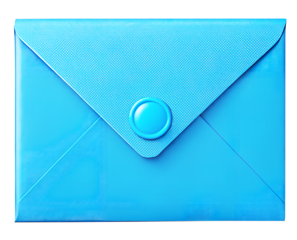
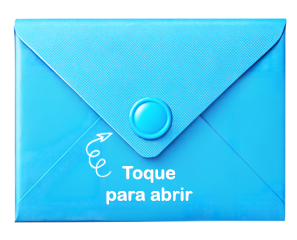
Botão de play no video

diff --git a/convite/index.html b/convite/index.html
@@ -60,7 +60,6 @@ body{
     object-fit:cover;
 
     /* impede interação */
-    pointer-events:none;
 }
 .decoracao{
     width: 25px;
@@ -161,7 +160,7 @@ body{
 
 .nuvens{
     position:relative;
-    padding:30px 25px 165px 25px;
+    padding:45px 25px 165px 25px;
     background-image:
         url('galera.png'),
         url('background.jpg');
@@ -507,6 +506,33 @@ h2{
     position:absolute;
     z-index:3;
 }
+.play-video{
+    position:absolute;
+    top:45%;
+    left:50%;
+    transform:translate(-50%, -50%);
+
+    width:70px;
+    height:70px;
+
+    border:none;
+    border-radius:50%;
+
+    background:rgba(0,0,0,0.35);
+    backdrop-filter:blur(3px);
+
+    color:white;
+    font-size:32px;
+
+    cursor:pointer;
+    z-index:10;
+
+    transition:.3s;
+}
+
+.play-video:hover{
+    transform:translate(-50%, -50%) scale(1.1);
+}
 </style>
 </head>
 <body>
@@ -515,15 +541,16 @@ h2{
 
     <div class="topo">
         <video
+            id="myVideo"
             class="video-topo"
-            autoplay
-            muted
+            controls
             loop
             playsinline
             disablepictureinpicture
             controlslist="nodownload nofullscreen noremoteplayback">
             <source src="topo.mp4" type="video/mp4">
         </video>
+        <button class="play-video" id="playBtn">&nbsp;▶</button>
     </div>
     
     <div class="nuvens">
@@ -662,6 +689,7 @@ function animarTexto(id, delayInicial = 0){
 animarTexto('nome');
 animarTexto('subtitulo', 0.6);
 
+
 function abrirPresente(){
     document.getElementById('overlay').classList.add('ativo');
     document.getElementById('cardPresente').classList.add('ativo');
@@ -670,5 +698,24 @@ function fecharPresente(){
     document.getElementById('overlay').classList.remove('ativo');
     document.getElementById('cardPresente').classList.remove('ativo');
 }
+
+const video = document.getElementById('myVideo');
+const playBtn = document.getElementById('playBtn');
+
+playBtn.addEventListener('click', () => {
+    video.play();
+});
+
+video.addEventListener('play', () => {
+    playBtn.style.display = 'none';
+});
+
+video.addEventListener('pause', () => {
+    playBtn.style.display = 'block';
+});
+
+video.addEventListener('ended', () => {
+    playBtn.style.display = 'block';
+});
 </script>
 </html>
